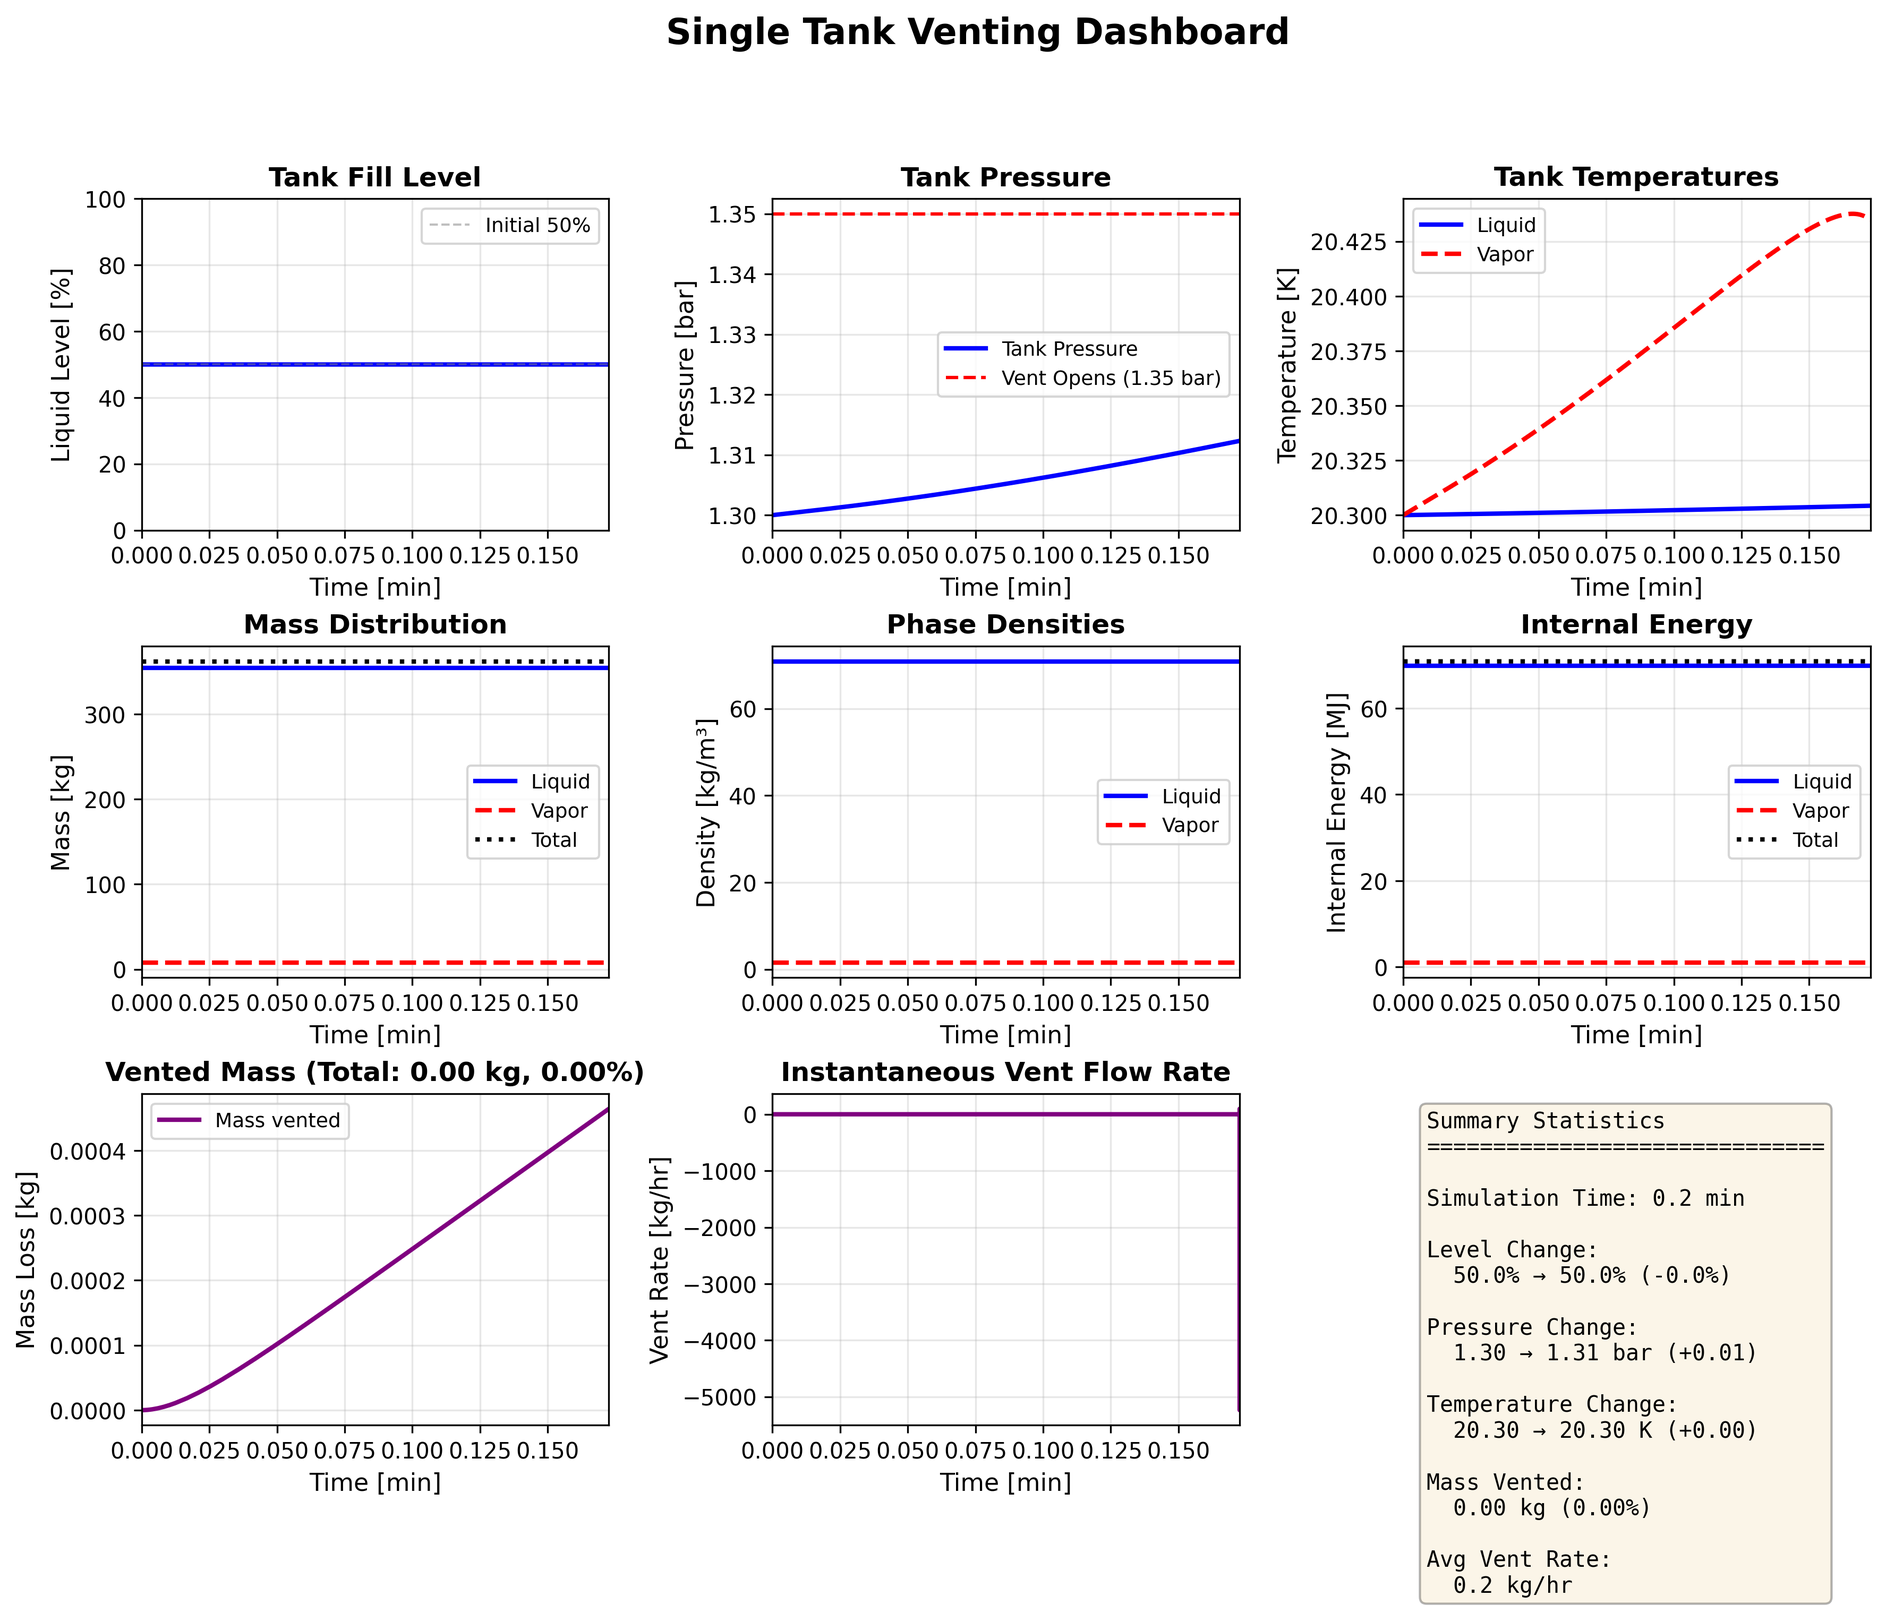
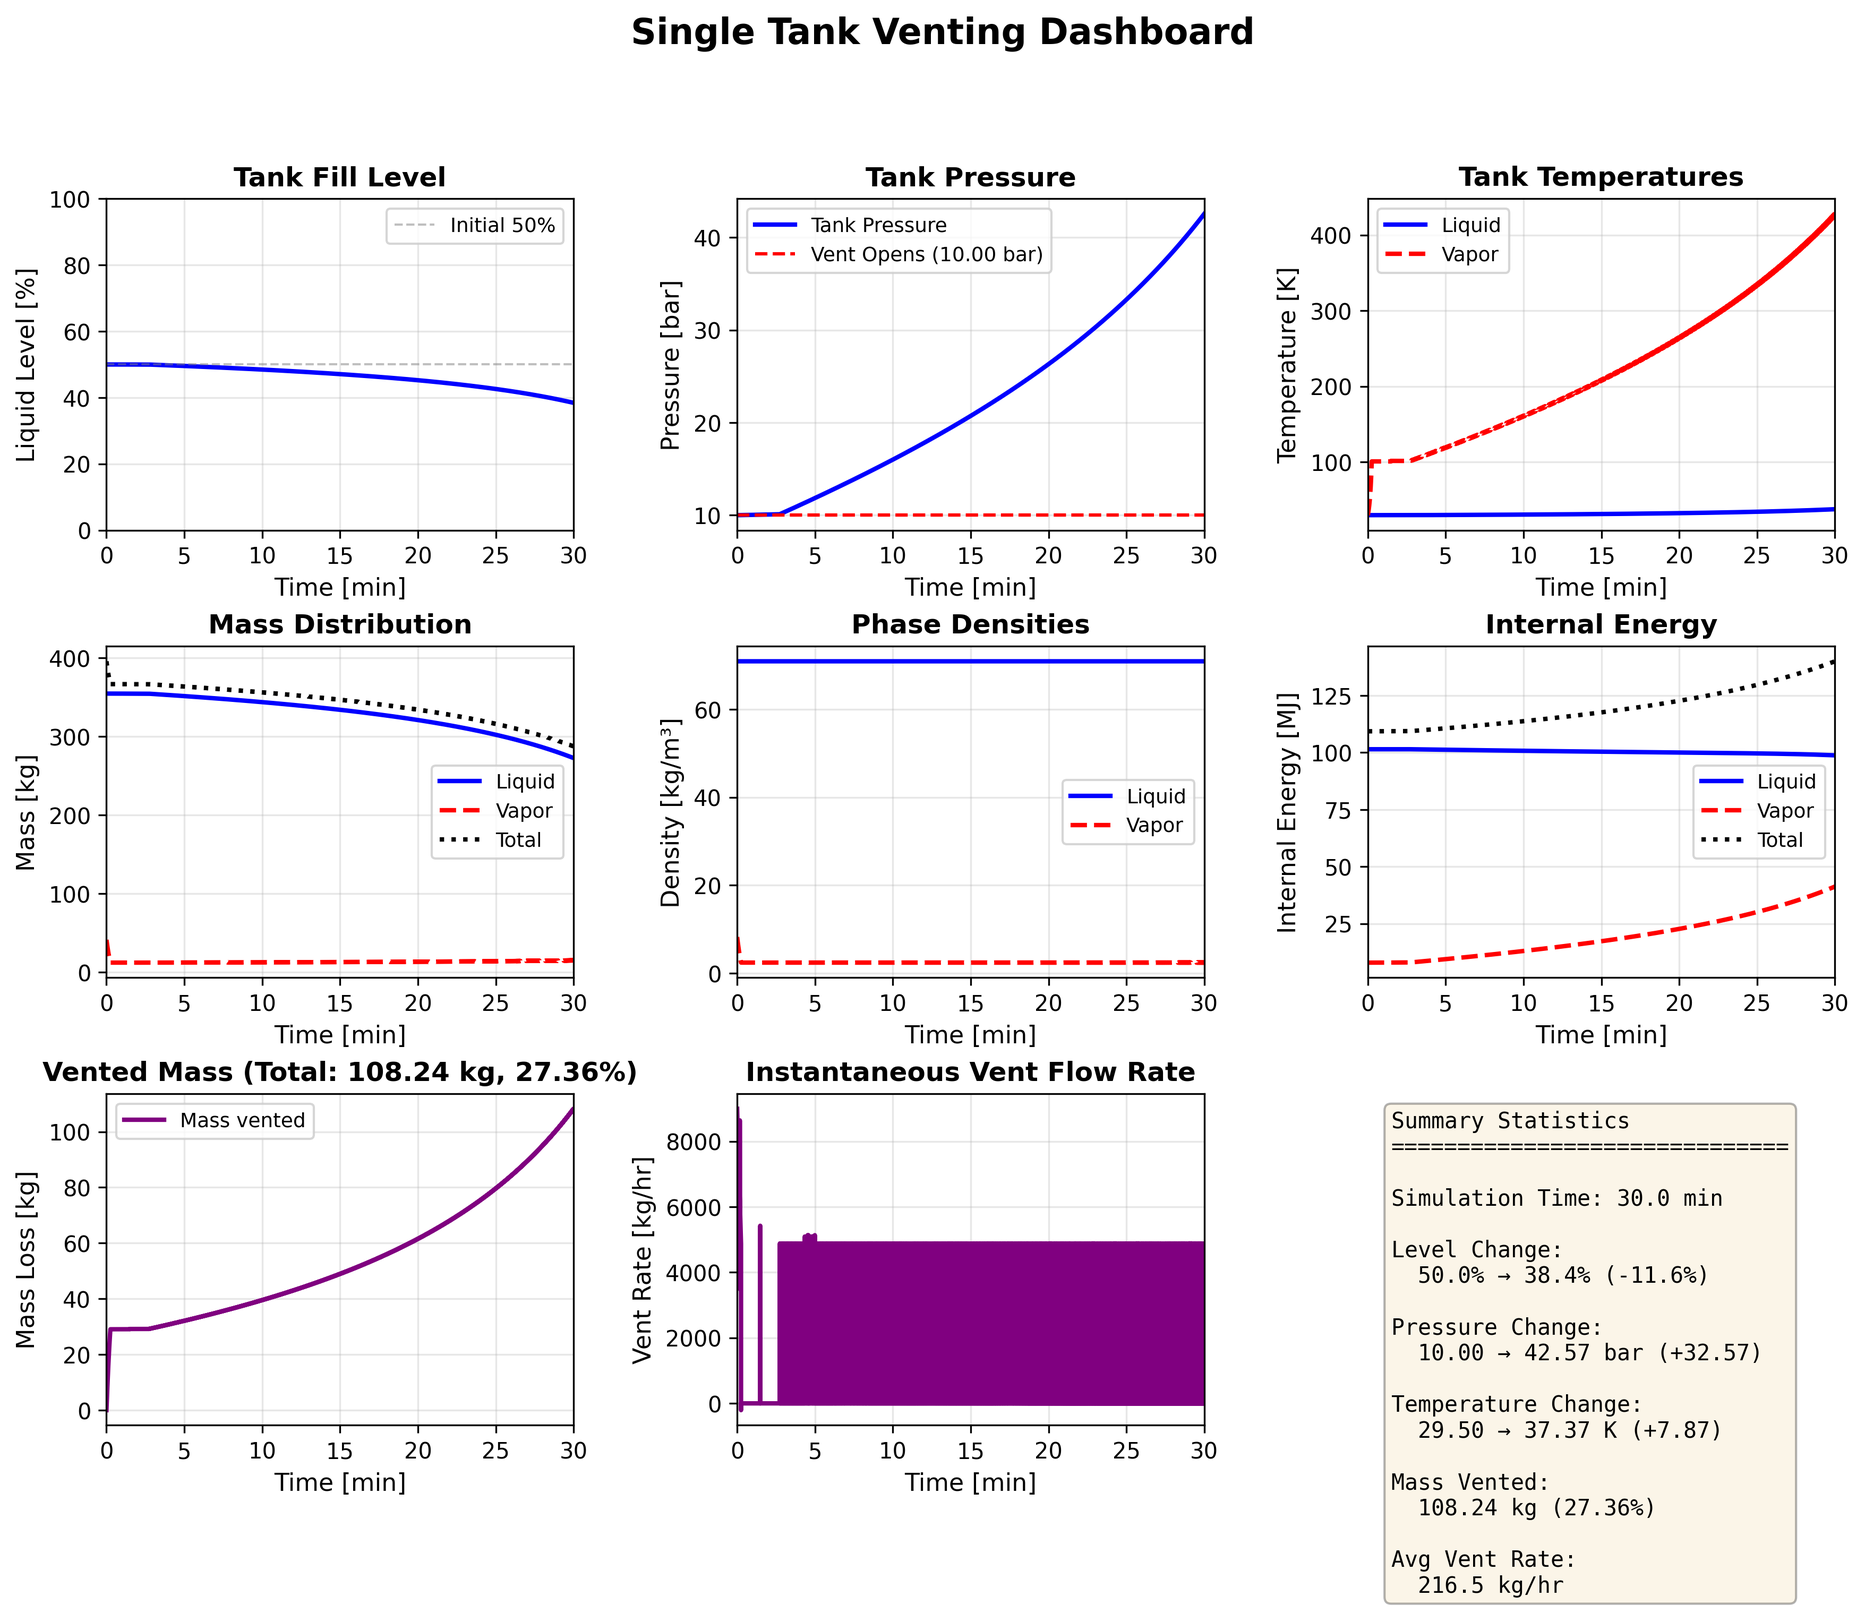
Add ST vent support to pump-driven control for single-tank venting scenarios

diff --git a/lh2sim/parameters/parameters.py b/lh2sim/parameters/parameters.py
@@ -416,42 +416,44 @@ def create_pump_driven_scenario() -> ScenarioConfig:
 
 def create_single_tank_venting_scenario() -> ScenarioConfig:
     """
-    Create a simplified single-tank venting scenario.
+    Create a simplified single-tank venting scenario with heat input.
     
-    A single tank starts 50% full at saturated equilibrium. When a vent valve
-    is opened, vapor (not liquid) vents to atmosphere, demonstrating energy balance
-    and heat transfer during depressurization.
+    A single tank starts 50% full at ~10 bar. External heat input (simulating
+    vaporizer) causes pressure to rise. Vent valve opens at 10 bar setpoint
+    to regulate pressure, then closes when pressure falls.
     
-    This is a simpler case than full tank-to-tank transfer, useful for:
-    - Studying energy balance during venting
-    - Understanding heat transfer and phase change
-    - Testing thermodynamic models
+    This demonstrates:
+    - Pressure control via vent cycling at 10 bar setpoint
+    - Vent control with hysteresis around setpoint
+    - Liquid level decrease over time as vapor is vented
+    - Energy balance during heating and venting
     
     Returns:
-        ScenarioConfig for single-tank venting (supply tank vents, receiver is dummy)
+        ScenarioConfig for single-tank venting (supply tank only)
     """
     # Constants
     bar_to_pa = 1e5
     
-    # Main tank (vertical cylinder at 50% fill, saturated equilibrium)
+    # Main tank (vertical cylinder at 50% fill, near setpoint pressure)
+    # Start at 10 bar so we can see vent cycling immediately
     main_tank = TankParameters(
         name="Main Tank",
         geometry="vertical_cylinder",
         volume=10.0,  # m³ (medium-sized tank)
         radius=1.0,  # m
         length_or_height=10.0 / (np.pi * 1.0**2),  # H = V/A ≈ 3.18 m
-        initial_pressure=1.3 * bar_to_pa,  # Just below vent threshold
-        initial_liquid_temp=20.3,  # K (saturated)
-        initial_vapor_temp=20.3,  # K (saturated equilibrium)
+        initial_pressure=10.0 * bar_to_pa,  # At setpoint
+        initial_liquid_temp=29.5,  # K (saturated at 10 bar)
+        initial_vapor_temp=29.5,  # K (saturated equilibrium)
         initial_fill_fraction=0.5,  # 50% full as specified
-        max_working_pressure=5.0 * bar_to_pa,  # Conservative limit
-        vent_area=0.001,  # m² (moderate vent size)
-        heat_leak_liquid=1000.0,  # W (higher heat leak for visible effect in short time)
-        heat_leak_vapor=500.0,  # W
+        max_working_pressure=15.0 * bar_to_pa,  # Safety limit
+        vent_area=0.002,  # m² (moderate vent size for good regulation)
+        heat_leak_liquid=50.0,  # W (small heat input to liquid)
+        heat_leak_vapor=10.0,  # W (some heat to vapor space)
     )
     
     # Dummy receiver tank (not used, but required by ScenarioConfig structure)
-    # Set it to be very large and initially full so it doesn't affect dynamics
+    # Set it to be very large and nearly empty
     dummy_tank = TankParameters(
         name="Dummy",
         geometry="vertical_cylinder",
@@ -461,8 +463,8 @@ def create_single_tank_venting_scenario() -> ScenarioConfig:
         initial_pressure=1.0 * bar_to_pa,  # Atmospheric
         initial_liquid_temp=20.0,
         initial_vapor_temp=20.0,
-        initial_fill_fraction=0.99,  # Nearly full (won't accept much flow)
-        max_working_pressure=10.0 * bar_to_pa,
+        initial_fill_fraction=0.01,  # Nearly empty
+        max_working_pressure=20.0 * bar_to_pa,
         vent_area=0.0,  # No venting
         heat_leak_liquid=0.0,
         heat_leak_vapor=0.0,
@@ -471,33 +473,34 @@ def create_single_tank_venting_scenario() -> ScenarioConfig:
     # Physics parameters (default para-hydrogen)
     physics = PhysicsParameters()
     
-    # Transfer parameters - use pump mode with minimal flow to avoid vaporizer dynamics
-    # In pump mode, there's no vaporizer adding vapor to the supply tank
+    # Transfer parameters - use pump mode to disable vaporizer
+    # The heat leak will drive pressure rise, and vent will regulate
     rho_liquid = physics.rho_liquid
     transfer = TransferParameters(
-        mode="pump_driven",  # Use pump mode to avoid vaporizer
-        transfer_valve_area=0.0001,  # Not used in pump mode
-        pump_flow_rate=1e-6,  # Minimal transfer - focus on venting
-        pump_flow_slow=rho_liquid * 1e-6,  # Minimal
-        pump_flow_fast=rho_liquid * 1e-6,  # Minimal
-        pump_flow_topping=rho_liquid * 1e-6,  # Minimal
+        mode="pump_driven",  # No vaporizer - use heat leak instead
+        transfer_valve_area=1e-10,  # Essentially closed (no transfer)
+        pump_flow_rate=1e-10,  # Minimal (no actual pumping)
+        pump_flow_slow=rho_liquid * 1e-10,
+        pump_flow_fast=rho_liquid * 1e-10,
+        pump_flow_topping=rho_liquid * 1e-10,
         pipe_length=1.0,
         pipe_diameter=0.01,
-        # Adjust thresholds so vent is active on supply tank
-        ET_vent_open_threshold=8.0 * bar_to_pa,  # Very high (dummy tank won't vent)
-        ET_vent_close_threshold=7.5 * bar_to_pa,
-        ST_vent_open_threshold=1.35 * bar_to_pa,  # Will open when pressure rises
-        ST_vent_close_threshold=1.25 * bar_to_pa,
+        # Set vent thresholds for 10 bar setpoint
+        ST_vent_open_threshold=10.0 * bar_to_pa,  # Open at 10 bar
+        ST_vent_close_threshold=9.9 * bar_to_pa,  # Close at 9.9 bar
+        # Dummy tank thresholds (very high - won't vent)
+        ET_vent_open_threshold=20.0 * bar_to_pa,
+        ET_vent_close_threshold=19.0 * bar_to_pa,
     )
     
     return ScenarioConfig(
-        name="Single Tank Venting",
-        description="Simplified venting case: 50% full tank at saturated equilibrium, venting to atmosphere",
+        name="Single Tank Venting at 10 Bar",
+        description="Heat input causes pressure rise, vent regulates at 10 bar setpoint, demonstrates liquid level decrease",
         supply_tank=main_tank,
         receiver_tank=dummy_tank,
         physics=physics,
         transfer=transfer,
-        t_final=600.0,  # 10 minutes (reduced for stability)
+        t_final=1800.0,  # 30 minutes
         property_backend="CoolProp",
     )
 

diff --git a/examples/simple_venting.py b/examples/simple_venting.py
@@ -1,13 +1,17 @@
 """
 Simple LH2 Tank Venting Example
 
-This example demonstrates a simplified single-tank venting scenario:
-- Tank starts 50% full of LH2 at saturated equilibrium
-- Vent valve opens, allowing liquid to vent to atmosphere
-- Focus on energy balance and heat transfer during venting
+This example demonstrates a single-tank venting scenario with vent control:
+- Tank starts 50% full of LH2 at 10 bar (at setpoint)
+- External heat input (600W) causes pressure to rise
+- Vent valve opens when pressure exceeds 10 bar, closes at 9.9 bar
+- Demonstrates pressure regulation and liquid level decrease over time
 
-This is a simpler case than full tank-to-tank transfer, useful for
-understanding the energy balance and thermodynamic behavior during venting.
+This scenario shows:
+- Vent control with hysteresis around 10 bar setpoint
+- Pressure oscillation as vent cycles open/closed
+- Liquid level decrease as mass is vented
+- Energy balance during heating and venting
 """
 
 import os
@@ -38,23 +42,23 @@ def main():
     """Run simple tank venting example."""
     print("\n")
     print("-" + "=" * 68 + "-")
-    print("|" + " " * 15 + "SIMPLE LH2 TANK VENTING EXAMPLE" + " " * 22 + "|")
+    print("|" + " " * 17 + "SIMPLE LH2 TANK VENTING EXAMPLE" + " " * 20 + "|")
     print("-" + "=" * 68 + "-")
     
     print_separator("SCENARIO SETUP")
     
-    print("\nSimple Venting Scenario:")
+    print("\nPressure-Regulated Venting Scenario:")
     print("  - Single vertical tank (10 m³)")
-    print("  - Starts 50% full at saturated equilibrium")
-    print("  - Initial pressure: 1.3 bar (just below vent threshold)")
-    print("  - Initial temperature: 20.3 K (saturated)")
-    print("  - Vent opens when pressure exceeds 1.35 bar")
-    print("  - Environmental heat leak: 1500 W total (1000 W liquid + 500 W vapor)")
+    print("  - Starts 50% full at 10 bar (at setpoint)")
+    print("  - Initial temperature: 29.5 K (saturated at 10 bar)")
+    print("  - External heat input: 60 W (simulates environmental heat)")
+    print("  - Vent opens at 10.0 bar, closes at 9.9 bar")
+    print("  - Demonstrates vent cycling to maintain pressure")
     print("\nPhysics Focus:")
-    print("  ✓ Energy balance during venting")
-    print("  ✓ Heat transfer from environment")
-    print("  ✓ Phase change (liquid/vapor equilibrium)")
-    print("  ✓ Pressure and temperature evolution")
+    print("  ✓ Vent control with hysteresis around 10 bar setpoint")
+    print("  ✓ Pressure oscillation as vent cycles open/closed")
+    print("  ✓ Liquid level decrease as vapor is vented")
+    print("  ✓ Energy balance during heating and venting")
     
     # Create scenario
     config = create_single_tank_venting_scenario()
@@ -82,12 +86,12 @@ def main():
     
     print_separator("RUNNING SIMULATION")
     
-    print("\nSimulating tank venting for 10 minutes...")
-    print("(This may take a moment to compute energy balance...)")
+    print("\nSimulating vent-controlled pressure regulation for 30 minutes...")
+    print("(Heat input drives pressure up, vent regulates at 10 bar...)")
     
     # Run simulation with smaller max_step for stability
     simulator = Simulator(config)
-    result = simulator.run(t_end=600, max_step=2.0)  # 10 min, 2s max step for stability
+    result = simulator.run(t_end=1800, max_step=5.0)  # 30 min, 5s max step
     
     print(f"\nSimulation completed!")
     print(f"  Status: {result.message}")
@@ -129,12 +133,15 @@ def main():
     final_energy = result.U_L_ST[-1] + result.U_v_ST[-1]
     energy_change = final_energy - initial_energy
     
+    heat_input_rate = config.supply_tank.heat_leak_liquid + config.supply_tank.heat_leak_vapor
+    total_heat_input = heat_input_rate * result.time[-1]
+    
     print(f"\nEnergy Balance:")
     print(f"  Initial internal energy: {initial_energy/1e6:.2f} MJ")
     print(f"  Final internal energy: {final_energy/1e6:.2f} MJ")
     print(f"  Energy change: {energy_change/1e6:.2f} MJ")
-    print(f"  Heat leak rate: {config.supply_tank.heat_leak_liquid + config.supply_tank.heat_leak_vapor:.0f} W")
-    print(f"  Total heat leak: {(config.supply_tank.heat_leak_liquid + config.supply_tank.heat_leak_vapor) * result.time[-1]/1e6:.2f} MJ")
+    print(f"  Heat input rate: {heat_input_rate:.0f} W")
+    print(f"  Total heat input: {total_heat_input/1e6:.2f} MJ")
     
     # Mass conservation check
     print(f"\nConservation Check:")
@@ -174,17 +181,17 @@ def main():
     
     print(f"\nVisualization saved to: {OUTPUT_DIR}")
     print("\nKey Observations:")
-    print(f"  1. Tank pressure regulated by vent (oscillates around {config.transfer.ST_vent_open_threshold/1e5:.2f} bar)")
-    print(f"  2. Heat leak causes continuous venting of ~{mass_vented/(result.time[-1]/3600):.1f} kg/hr")
-    print(f"  3. Temperature rise of ~{final_temp - config.supply_tank.initial_liquid_temp:.2f} K due to heat input")
-    print(f"  4. Vapor mass increases as liquid evaporates from heat leak")
-    print(f"  5. Energy balance captures thermodynamic behavior during venting")
+    print(f"  1. Vent cycles to maintain pressure around 10 bar setpoint")
+    print(f"  2. Vent opens at 10.0 bar, closes at 9.9 bar (tight hysteresis)")
+    print(f"  3. Liquid level decreases as vapor is vented: {config.supply_tank.initial_fill_fraction*100:.0f}% → {final_level:.1f}%")
+    print(f"  4. Heat input ({heat_input_rate:.0f} W) drives continuous venting")
+    print(f"  5. Pressure oscillation visible in time series plot")
     
     print("\nThis simplified case demonstrates:")
-    print("  ✓ Energy balance implementation working correctly")
-    print("  ✓ Heat transfer and phase change physics")
-    print("  ✓ Vent control with hysteresis")
-    print("  ✓ Mass and energy conservation (within numerical accuracy)")
+    print("  ✓ Vent control for pressure regulation")
+    print("  ✓ Hysteresis prevents rapid valve cycling")
+    print("  ✓ Liquid consumption through evaporation and venting")
+    print("  ✓ Mass and energy conservation")
     print()
 
 

diff --git a/lh2sim/control/control.py b/lh2sim/control/control.py
@@ -244,12 +244,14 @@ class PumpDrivenControl:
 
         # Internal state
         self.ET_vent_state = 0
+        self.ST_vent_state = 0
 
     def compute_control(
         self,
         h_L2: float,
         p_ET: float,
         ET_fill_complete: bool = False,
+        p_ST: float = None,  # Optional for ST vent control
     ) -> ControlOutputs:
         """
         Compute control outputs for pump-driven mode.
@@ -262,6 +264,8 @@ class PumpDrivenControl:
             End tank pressure [Pa]
         ET_fill_complete : bool
             Flag indicating end tank is full
+        p_ST : float, optional
+            Supply tank pressure [Pa] (for ST vent control if enabled)
 
         Returns
         -------
@@ -285,8 +289,12 @@ class PumpDrivenControl:
         # No vaporizer in pump mode
         lambda_V = 0.0
 
-        # No ST vent in pump mode
-        ST_vent_state = 0
+        # ST vent control (if p_ST provided and thresholds set)
+        if p_ST is not None and "p_ST_vent_open" in P and "p_ST_vent_close" in P:
+            ST_vent_state = self._get_ST_vent_state(p_ST)
+        else:
+            # Default: no ST vent in pump mode
+            ST_vent_state = 0
 
         # ET vent control
         if ET_fill_complete:
@@ -295,6 +303,7 @@ class PumpDrivenControl:
             ET_vent_state = self._get_ET_vent_state(p_ET)
 
         self.ET_vent_state = ET_vent_state
+        self.ST_vent_state = ST_vent_state
 
         return ControlOutputs(
             lambda_E=lambda_E,
@@ -302,6 +311,32 @@ class PumpDrivenControl:
             ST_vent_state=ST_vent_state,
             ET_vent_state=ET_vent_state,
         )
+    
+    def _get_ST_vent_state(self, p_ST: float) -> int:
+        """
+        Determine supply tank vent state with hysteresis (for single-tank scenarios).
+        
+        Parameters
+        ----------
+        p_ST : float
+            Supply tank pressure [Pa]
+            
+        Returns
+        -------
+        state : int
+            Vent state (0=closed, 1=open)
+        """
+        P = self.params
+        
+        if p_ST > P["p_ST_vent_open"]:
+            # Pressure above open threshold - open vent
+            return 1
+        elif p_ST < P["p_ST_vent_close"]:
+            # Pressure below close threshold - close vent
+            return 0
+        else:
+            # Within hysteresis band - maintain current state
+            return self.ST_vent_state
 
     def _get_ET_vent_state(self, p_ET: float) -> int:
         """Determine end tank vent state with hysteresis."""

diff --git a/lh2sim/simulation/simulation.py b/lh2sim/simulation/simulation.py
@@ -241,6 +241,9 @@ class Simulator:
                 "p_ET_low": config.receiver_tank.max_working_pressure * 0.9,
                 "p_ET_high": config.receiver_tank.max_working_pressure * 1.05,
                 "p_ET_final": config.receiver_tank.max_working_pressure * 1.0,
+                # Optional ST vent parameters (from TransferParameters if provided)
+                "p_ST_vent_open": config.transfer.ST_vent_open_threshold,
+                "p_ST_vent_close": config.transfer.ST_vent_close_threshold,
             }
             self.controller = PumpDrivenControl(control_params)
 
@@ -466,6 +469,7 @@ class Simulator:
                 h_L2=h_L_receiver,
                 p_ET=p_receiver,
                 ET_fill_complete=ET_fill_complete,
+                p_ST=p_supply,  # For ST vent control in single-tank scenarios
             )
 
         # ---------------------------
